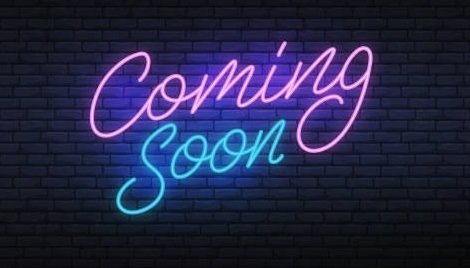
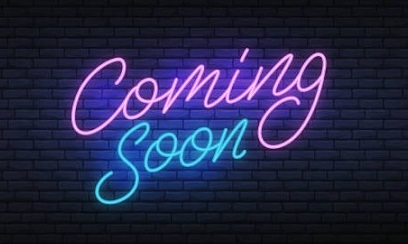
Updated images and styling for project page

diff --git a/projects.html b/projects.html
@@ -19,10 +19,10 @@
         <nav class="topNav">
             <a href="index.html" class="logo"><img src="images/Low Resolution Logo.png" alt="Nicoletta Haddad"></a>
             <ul class="nav-links">
-                <li><a href="index.html">Home</a></li>
-                <li><a href="about.html">About</a></li>
-                <li><a href="projects.html">Portfolio</a></li>
-                <li><a href="#contact-form">Contact</a></li>
+                <li><a href="index.html">HOME</a></li>
+                <li><a href="about.html">ABOUT</a></li>
+                <li><a href="projects.html">PROJECTS</a></li>
+                <li><a href="#contact-form">CONTACT</a></li>
 
             </ul>
             <!--BURGER-->
@@ -70,7 +70,67 @@
                     <a href="#"><img src="images/comeCome (Small).jpg"  alt="Project Image"></a>
                 </div>
                 <section class="projectTextBox">
-                    <h2>Python Project</h2>
+                    <h2>New Project</h2>
+                    <p>This project is under construction. I will tell you all about it soon. For now lets keep it a secret.</p>
+                    <div class="projectTechBox">
+                        <div class="projectTechIcons1">
+                            <a href="#"><i class="fa-brands fa-html5" class="html5>"></i></a>
+                            <a href="#"><i class="fa-brands fa-css3-alt" class="css3"></i></a>
+                            <a href="#"><i class="fa-brands fa-square-js" class="javaScript"></i></a>
+                        </div>
+                        <div class="projectTechIcons2">
+                            <a href="https://github.com/EttaLioness" class="github"><i class="fa fa-github"></i></a>
+                            <a href="index.html"><i class="fa-solid fa-arrow-up-right-from-square"></i></i></a>
+                        </div>
+                    </div>
+                </section>
+            </article>
+            <article class="projectContainer">
+                <div class="projectImageBox2">
+                    <a href="#"><img src="images/comeCome (Small).jpg"  alt="Project Image"></a>
+                </div>
+                <section class="projectTextBox">
+                    <h2>New Project</h2>
+                    <p>This project is under construction. I will tell you all about it soon. For now lets keep it a secret.</p>
+                    <div class="projectTechBox">
+                        <div class="projectTechIcons1">
+                            <a href="#"><i class="fa-brands fa-html5" class="html5>"></i></a>
+                            <a href="#"><i class="fa-brands fa-css3-alt" class="css3"></i></a>
+                            <a href="#"><i class="fa-brands fa-square-js" class="javaScript"></i></a>
+                        </div>
+                        <div class="projectTechIcons2">
+                            <a href="https://github.com/EttaLioness" class="github"><i class="fa fa-github"></i></a>
+                            <a href="index.html"><i class="fa-solid fa-arrow-up-right-from-square"></i></i></a>
+                        </div>
+                    </div>
+                </section>
+            </article>
+            <article class="projectContainer">
+                <div class="projectImageBox2">
+                    <a href="#"><img src="images/comeCome (Small).jpg"  alt="Project Image"></a>
+                </div>
+                <section class="projectTextBox">
+                    <h2>New Project</h2>
+                    <p>This project is under construction. I will tell you all about it soon. For now lets keep it a secret.</p>
+                    <div class="projectTechBox">
+                        <div class="projectTechIcons1">
+                            <a href="#"><i class="fa-brands fa-html5" class="html5>"></i></a>
+                            <a href="#"><i class="fa-brands fa-css3-alt" class="css3"></i></a>
+                            <a href="#"><i class="fa-brands fa-square-js" class="javaScript"></i></a>
+                        </div>
+                        <div class="projectTechIcons2">
+                            <a href="https://github.com/EttaLioness" class="github"><i class="fa fa-github"></i></a>
+                            <a href="index.html"><i class="fa-solid fa-arrow-up-right-from-square"></i></i></a>
+                        </div>
+                    </div>
+                </section>
+            </article>
+            <article class="projectContainer">
+                <div class="projectImageBox2">
+                    <a href="#"><img src="images/comeCome (Small).jpg"  alt="Project Image"></a>
+                </div>
+                <section class="projectTextBox">
+                    <h2>New Project</h2>
                     <p>This project is under construction. I will tell you all about it soon. For now lets keep it a secret.</p>
                     <div class="projectTechBox">
                         <div class="projectTechIcons1">

diff --git a/style.css b/style.css
@@ -13,10 +13,10 @@ html {
 
 
 
- * {
+ /** {
 
   border: 1px solid black;
-}
+}*/
 
 body {
   background: #35185A;
@@ -203,59 +203,62 @@ ul a:hover {
 #projectIntro .titleSpread {
   font-size: 5rem;
 }
-
+.masterProjectContainer{
+display: flex;
+flex-direction: row;
+justify-content: space-around;
+flex-wrap: wrap;
+}
 .projectContainer {
   display: flex;
-  flex-direction: row;
-  justify-content:space-around;
- /* align-items:stretch;*/
-  padding-top: 5%;
-
+  flex-direction: column;
+  justify-content:center;
+  margin-top: 5%;
+  width: 45%;
+  
 }
-.projectImageBox img:hover {
+.projectContainer:hover {
   box-shadow: 5px 10px 18px #07bccc;
   transition: all 0.3s ease;
   transform: scale(1.01);
 }
 .projectImageBox,
 .projectTextBox, .projectImageBox2 {
-  width: 45%;
-  height: 30%;
+  height: 70%;
   transition: all 0.3s ease;
-  border-radius: 2rem;
+  
 }
 
 .projectImageBox img{
   height: 100%;
   width: 100%;
-  object-fit: contain;
-  border-radius: 2rem;
+  object-fit: fill;
 }
 
 .projectImageBox2 img {
   height: 100%;
-  object-fit:contain;
-  border-radius: 2rem;
+  object-fit:fill;
   width: 100%;
 }
 
 
 .projectTextBox a {
   color: white;
-  background: none;
   font-size: 2rem;
   padding: 0.5rem;
-
+  
 }
 
 .projectTextBox {
   padding: 2rem;
-  box-shadow: 5px 10px 18px hotpink;
-  transition: all 0.3s ease;
  /* border-radius: 2rem;*/
   display: flex;
+  background: none;
   flex-direction: column;
-  justify-content: center;
+  justify-content: space-between;
+  color:#35185A;
+  font-size: 1.2rem;
+  background-image: radial-gradient(pink, #d648ff,#35185A );
 }
 /**Project Tech Boxes are good================
 =========================================*/
@@ -286,7 +289,10 @@ ul a:hover {
   justify-content: flex-end;
   max-width: 30%;
 }
-
+/*had to overide css for github fix social link*/
+.projectTechIcons2 .github{
+background: none;
+}
 
 /*=============================================
 ====== Speech bubble with a shadow ==============================*/
@@ -689,5 +695,22 @@ footer {
   #projectIntro .titleSpread {
     font-size: 3rem;
 
+  }
+}
+
+@media only screen and (max-width: 860px) {
+  .projectContainer{
+    width: 70%;
+  }
+
+  .projectTextBox {
+    font-size: 1rem;
+  }
+  .projectImageBox2 img {
+    height: 100%;
+    object-fit:fill;
+    width: 100%;
+    display: flex;
+    align-self:stretch;
   }
 }

diff --git a/about.html b/about.html
@@ -16,10 +16,10 @@
             <nav class="topNav">
                 <a href="index.html" class="logo"><img src="images/Low Resolution Logo.png" alt="Nicoletta Haddad"></a>
                 <ul class="nav-links">
-                    <li><a href="index.html">Home</a></li>
-                    <li><a href="about.html">About</a></li>
-                    <li><a href="projects.html">Portfolio</a></li>
-                    <li><a href="#contact-form">Contact</a></li>
+                    <li><a href="index.html">HOME</a></li>
+                    <li><a href="about.html">ABOUT</a></li>
+                    <li><a href="projects.html">PROJECT</a></li>
+                    <li><a href="#contact-form">CONTACT</a></li>
     
                 </ul>
                 <!--BURGER-->

diff --git a/index.html b/index.html
@@ -20,10 +20,10 @@
         <nav class="topNav">
             <a href="index.html" class="logo"><img src="images/Low Resolution Logo.png" alt="Nicoletta Haddad"></a>
             <ul class="nav-links">
-                <li><a href="index.html">Home</a></li>
-                <li><a href="about.html">About</a></li>
-                <li><a href="projects.html">Portfolio</a></li>
-                <li><a href="#contact-form">Contact</a></li>
+                <li><a href="index.html">HOME</a></li>
+                <li><a href="about.html">ABOUT</a></li>
+                <li><a href="projects.html">PROJECT</a></li>
+                <li><a href="#contact-form">CONTACT</a></li>
 
             </ul>
             <!--BURGER-->
